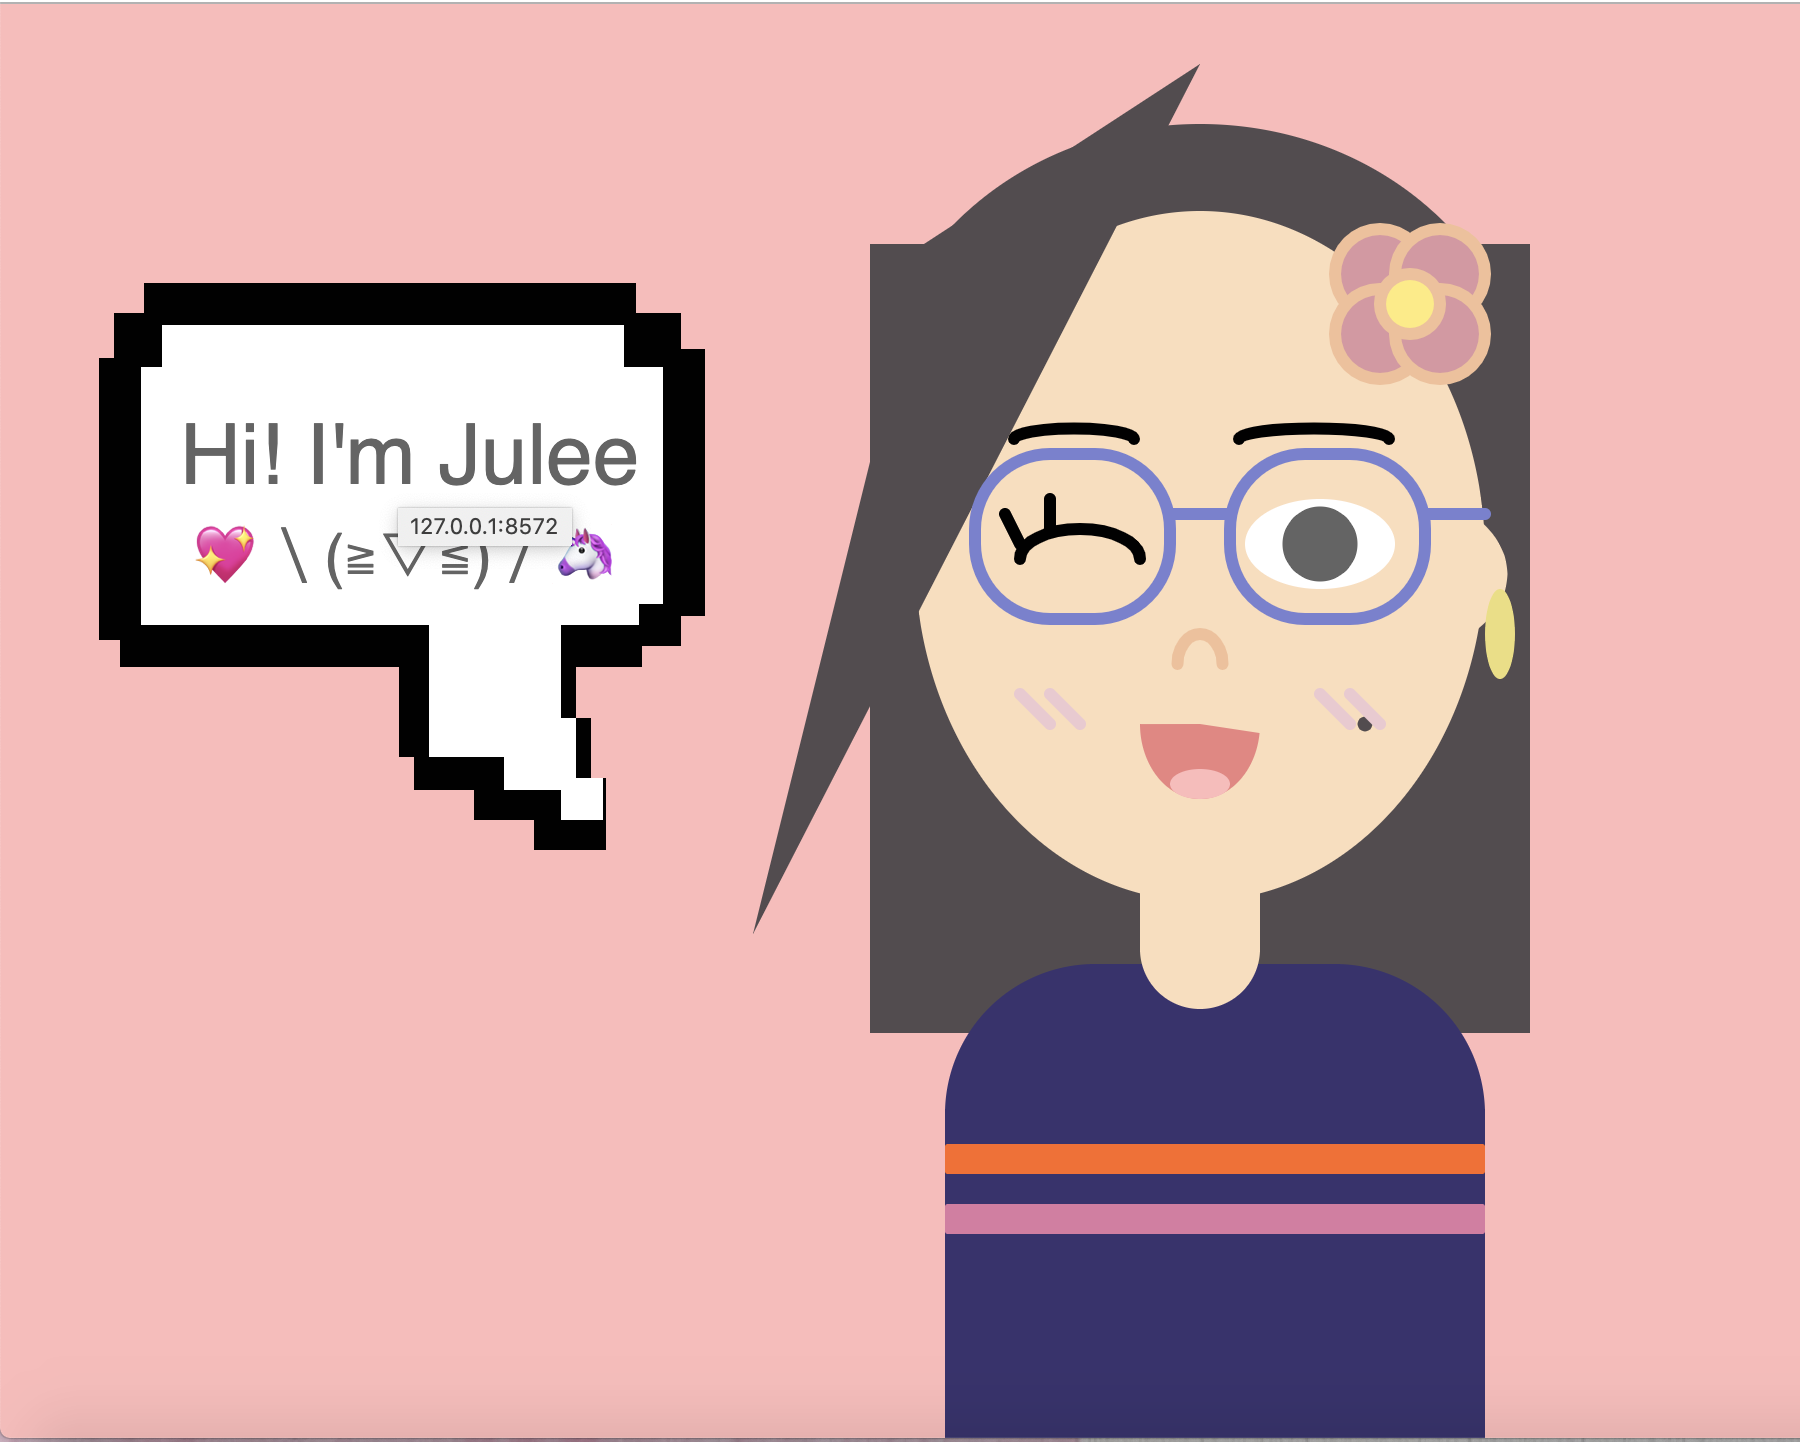
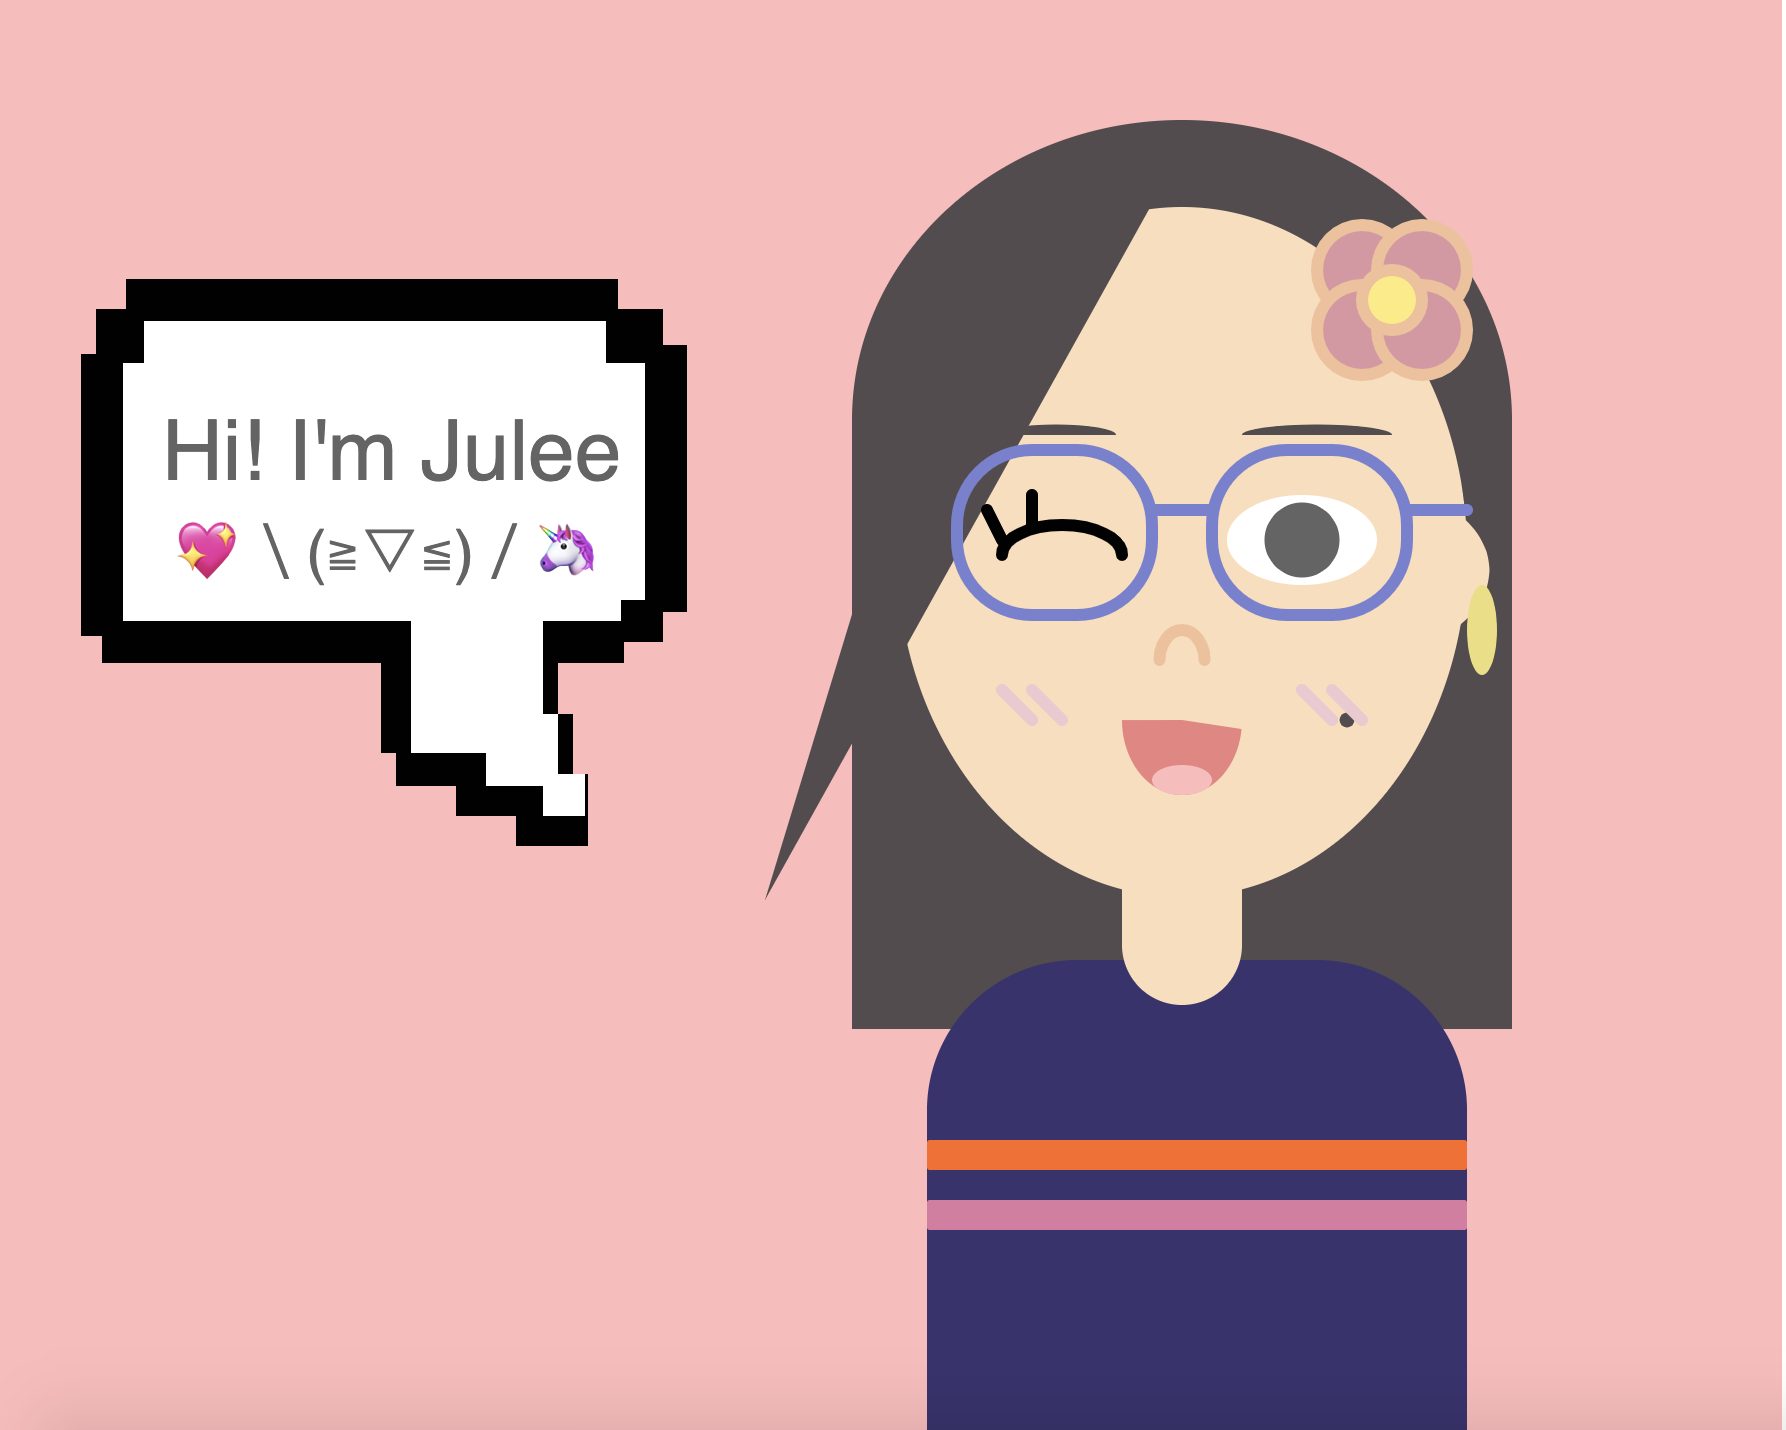
changed hair

diff --git a/juleen.js b/juleen.js
@@ -12,9 +12,10 @@ function draw() {
   
   //ME//
 noStroke();
+
   //hair// 
   fill(83,76,79);
-  rect(290,80, 220, 263);
+  rect(290, 140, 220, 203);
   arc(400, 140, 220, 200, PI, TWO_PI);
   fill(100)
  
@@ -24,14 +25,19 @@ noStroke();
   fill(83,76,79)
   
   
+    //eyebrows//
+  arc(358, 145, 40, 7, PI, TWO_PI);
+  arc(445, 145, 50, 7, PI, TWO_PI);
+  
   //bangs//
-  triangle(400, 20, 251, 310, 308, 80);
+  triangle(400, 50, 261, 300, 328, 80);
   fill(83,76,79);
   ellipse(455, 240, 5, 5);
   
   //ear//
     fill(252, 221, 187);
     ellipse(455, 190, 95, 60);
+
   //earring//
     fill(236,223, 122);
     ellipse(500, 210, 10, 30);
@@ -53,7 +59,6 @@ noStroke();
 
   
 //body//
-
 fill(58, 49, 111);
 rect(315, 320, 180, 160, 50, 50, 1, 1);
     fill(255,104, 31);
@@ -77,30 +82,27 @@ line(390, 170, 410, 170);
 line(475, 170, 495, 170);
 strokeWeight(4)
   stroke(1)
+
   //wink//
  arc(360, 185, 40, 20, PI, TWO_PI);
  
     //eyelashes//
 line(335, 170, 340, 180);
   line(350, 165, 350, 175);
-   //eyebrows//
-   arc(358, 145, 40, 7, PI, TWO_PI);
-   arc(438, 145, 50, 7, PI, TWO_PI);
-  //grin//
   
+ 
+   
   
-  
-  ///blush//
 
-   stroke(238,201,208);
+  ///blush//
+  stroke(238,201,208);
     line(350, 230, 360, 240);
     line(340, 230, 350, 240);
     line(440, 230, 450, 240);
     line(450, 230, 460, 240);
   
     //nose//
-
-  noFill();
+noFill();
   stroke(243, 192, 151);
     arc(400,220, 15, 20, PI, TWO_PI);
   
@@ -120,9 +122,8 @@ ellipse(470, 100, 20, 20);
     //bubble speech//
       fill(255);
   stroke(1);
-rect(40, 105, 185, 105);
+  rect(40, 105, 185, 105);
   fill(1);
-  
   rect(42, 109, 10, 10);
   rect(35, 120, 10, 90);
   rect(42, 209, 10, 10);
@@ -131,6 +132,7 @@ rect(40, 105, 185, 105);
   rect(223, 117, 10, 85);
   rect(50, 95, 160, 10);
    rect(210, 109, 13, 10);
+
   //blackborders//
    rect(135, 209, 10, 40);
    rect(140, 240, 40, 20);
@@ -145,6 +147,7 @@ rect(40, 105, 185, 105);
   rect(145, 209, 40, 40);
   rect(170, 240, 20, 20);
   rect(189, 260, 10, 10);
+
 //message//
   textSize(28);
   fill(100);
